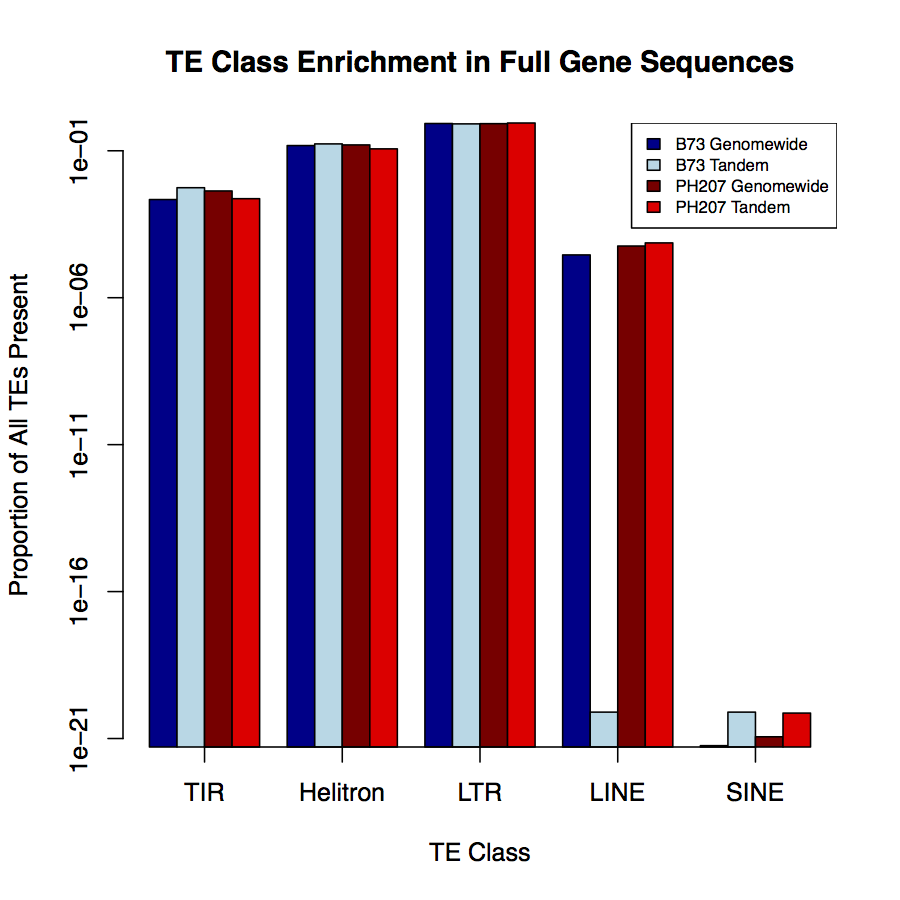
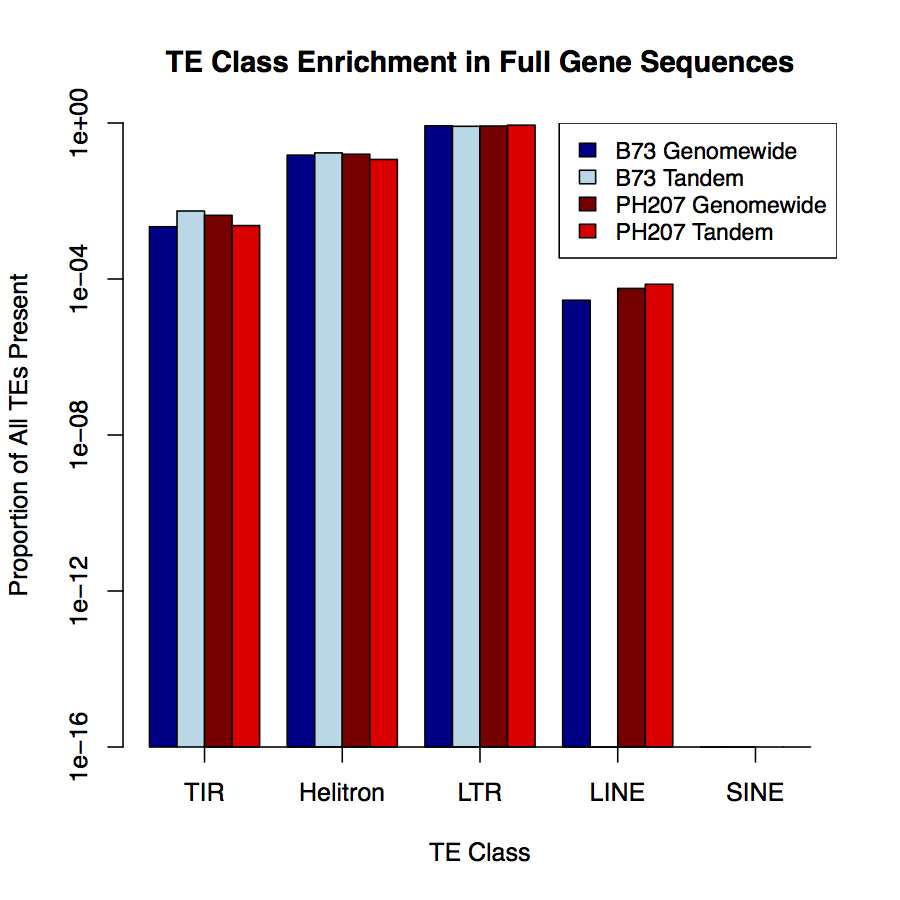
Update TE enrichment

diff --git a/Report/Workflow.md b/Report/Workflow.md
@@ -281,11 +281,9 @@ python Scripts/Analysis/Count_TE_Types.py \
 ```
 
 When searching for TE sequence similarity in full gene sequences (including
-introns and UTRs when available), there appears to be an enrichment for SINE
-sequences in tandem duplicates in both B73 and PH207. It appears as though there
-is a de-enrichment for LINE sequence similarity in B73 tandem duplicates, but
-not in PH207 tandem duplicates. Other TE classes appear at genomewide
-proportions.
+introns and UTRs when available), LINEs do not show up at all in B73 tandem
+duplicates, but do show up in PH207 tandem duplicates at genome-wide
+proportions. SINE elements do not show up at all in genes.
 
 ![TE class enrichment](TE_Class_Enrichment.png)
 
